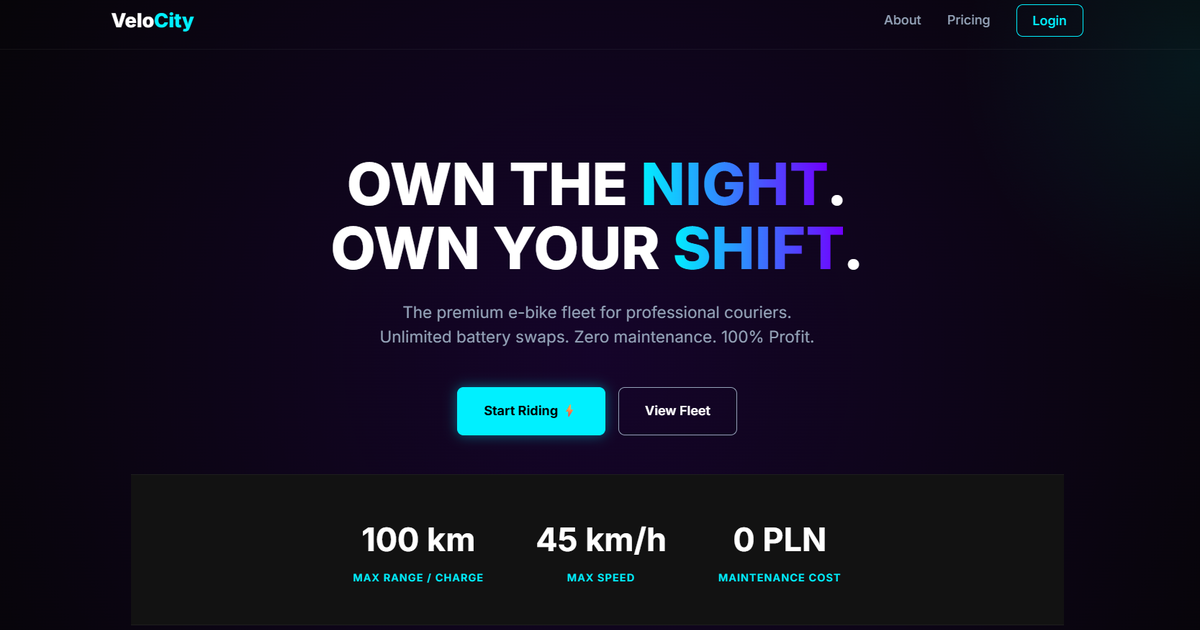
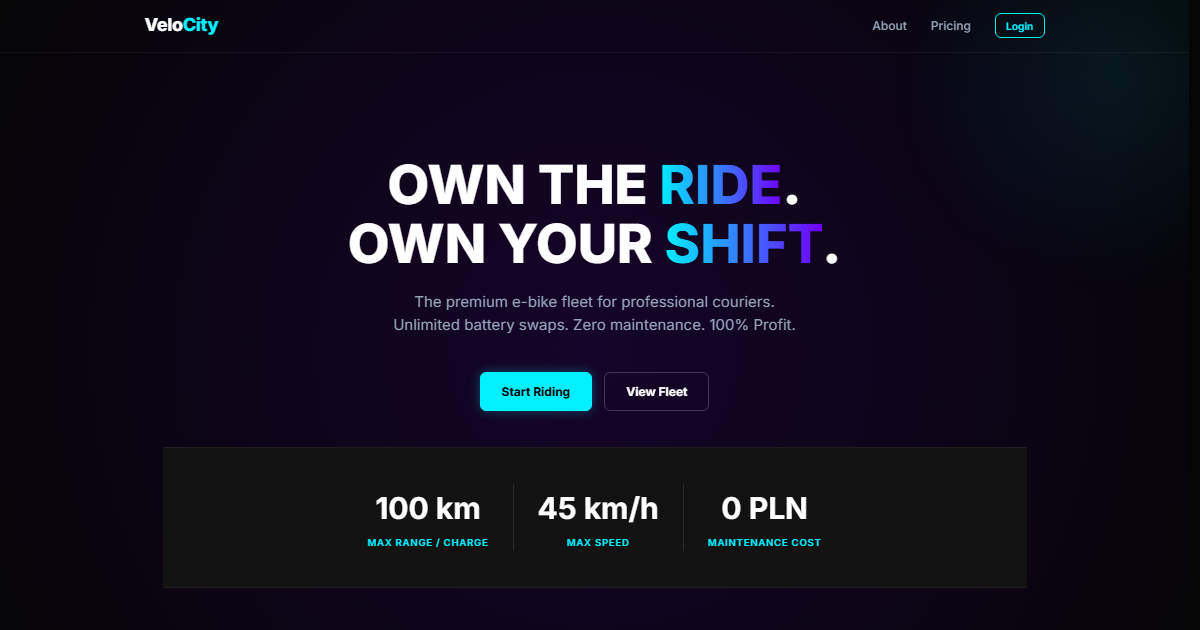
fix(seo): absolute social preview URLs and a current preview image
- og:image and twitter:image were root-relative. Slack and Facebook
  resolve that, but LinkedIn and several other crawlers do not, so a
  shared link could preview without its card. Both now point at the
  production domain, https://www.velocityfleet.dev (the bare domain
  redirects there), and og:url is added.
- The preview image still showed the old "Own the night" headline and
  the emoji since removed from Start Riding. It is recaptured from the
  current landing page: a 1600x840 viewport rendered at 0.75x into
  exactly 1200x630, so the stats bar fits. The alt text matches it.

diff --git a/index.html b/index.html
@@ -18,25 +18,30 @@
     -->
     <meta property="og:type" content="website" />
     <meta property="og:site_name" content="VeloCity" />
+    <meta property="og:url" content="https://www.velocityfleet.dev/" />
     <meta property="og:title" content="VeloCity | E-Bike Rentals for Couriers" />
     <meta
       property="og:description"
       content="Reserve a courier e-bike by the day. Live availability, tiered pricing, and a booking that is never double-sold."
     />
     <!--
-      Slack and Facebook resolve a root-relative image, but LinkedIn and
-      several others require an absolute URL. Once the production domain is
-      fixed, make this (and og:url) absolute:
-        <meta property="og:image" content="https://<domain>/og-image.png" />
+      Absolute, because LinkedIn and several other crawlers ignore a
+      root-relative image. The domain is the production one; the bare
+      velocityfleet.dev redirects to www.
     -->
-    <meta property="og:image" content="/og-image.png" />
+    <meta property="og:image" content="https://www.velocityfleet.dev/og-image.png" />
+    <meta property="og:image:type" content="image/png" />
     <meta property="og:image:width" content="1200" />
     <meta property="og:image:height" content="630" />
     <meta
       property="og:image:alt"
-      content="VeloCity landing page: Own the night, own your shift."
+      content="VeloCity landing page: Own the ride, own your shift."
     />
-    <meta name="twitter:image" content="/og-image.png" />
+    <meta name="twitter:image" content="https://www.velocityfleet.dev/og-image.png" />
+    <meta
+      name="twitter:image:alt"
+      content="VeloCity landing page: Own the ride, own your shift."
+    />
     <meta name="twitter:card" content="summary_large_image" />
     <meta name="twitter:title" content="VeloCity | E-Bike Rentals for Couriers" />
     <meta
